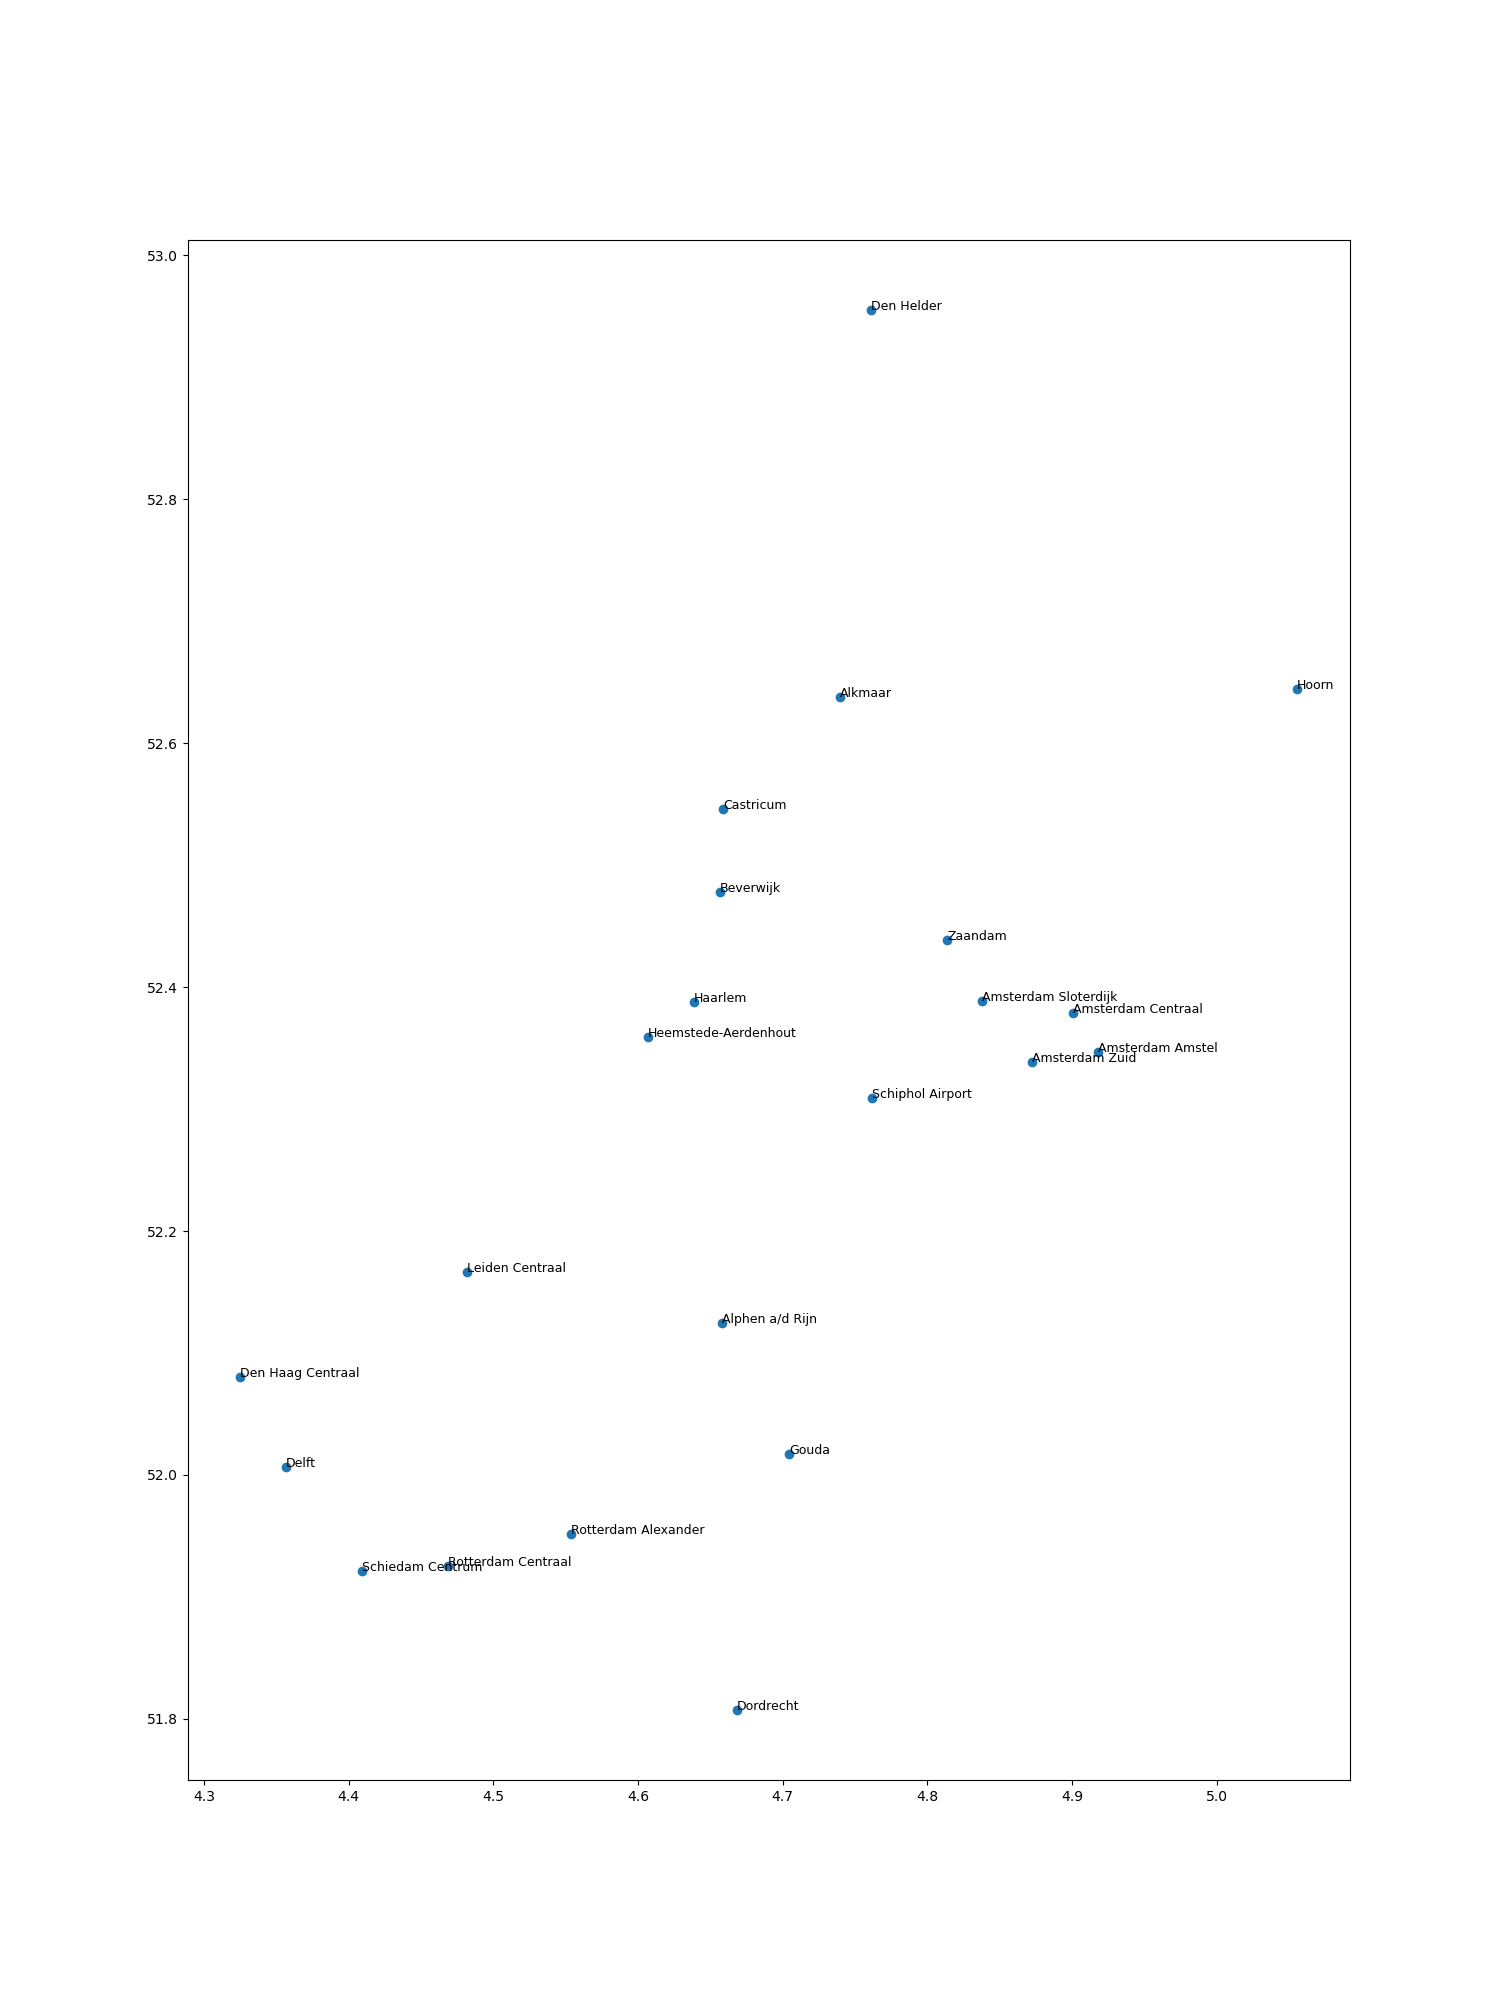
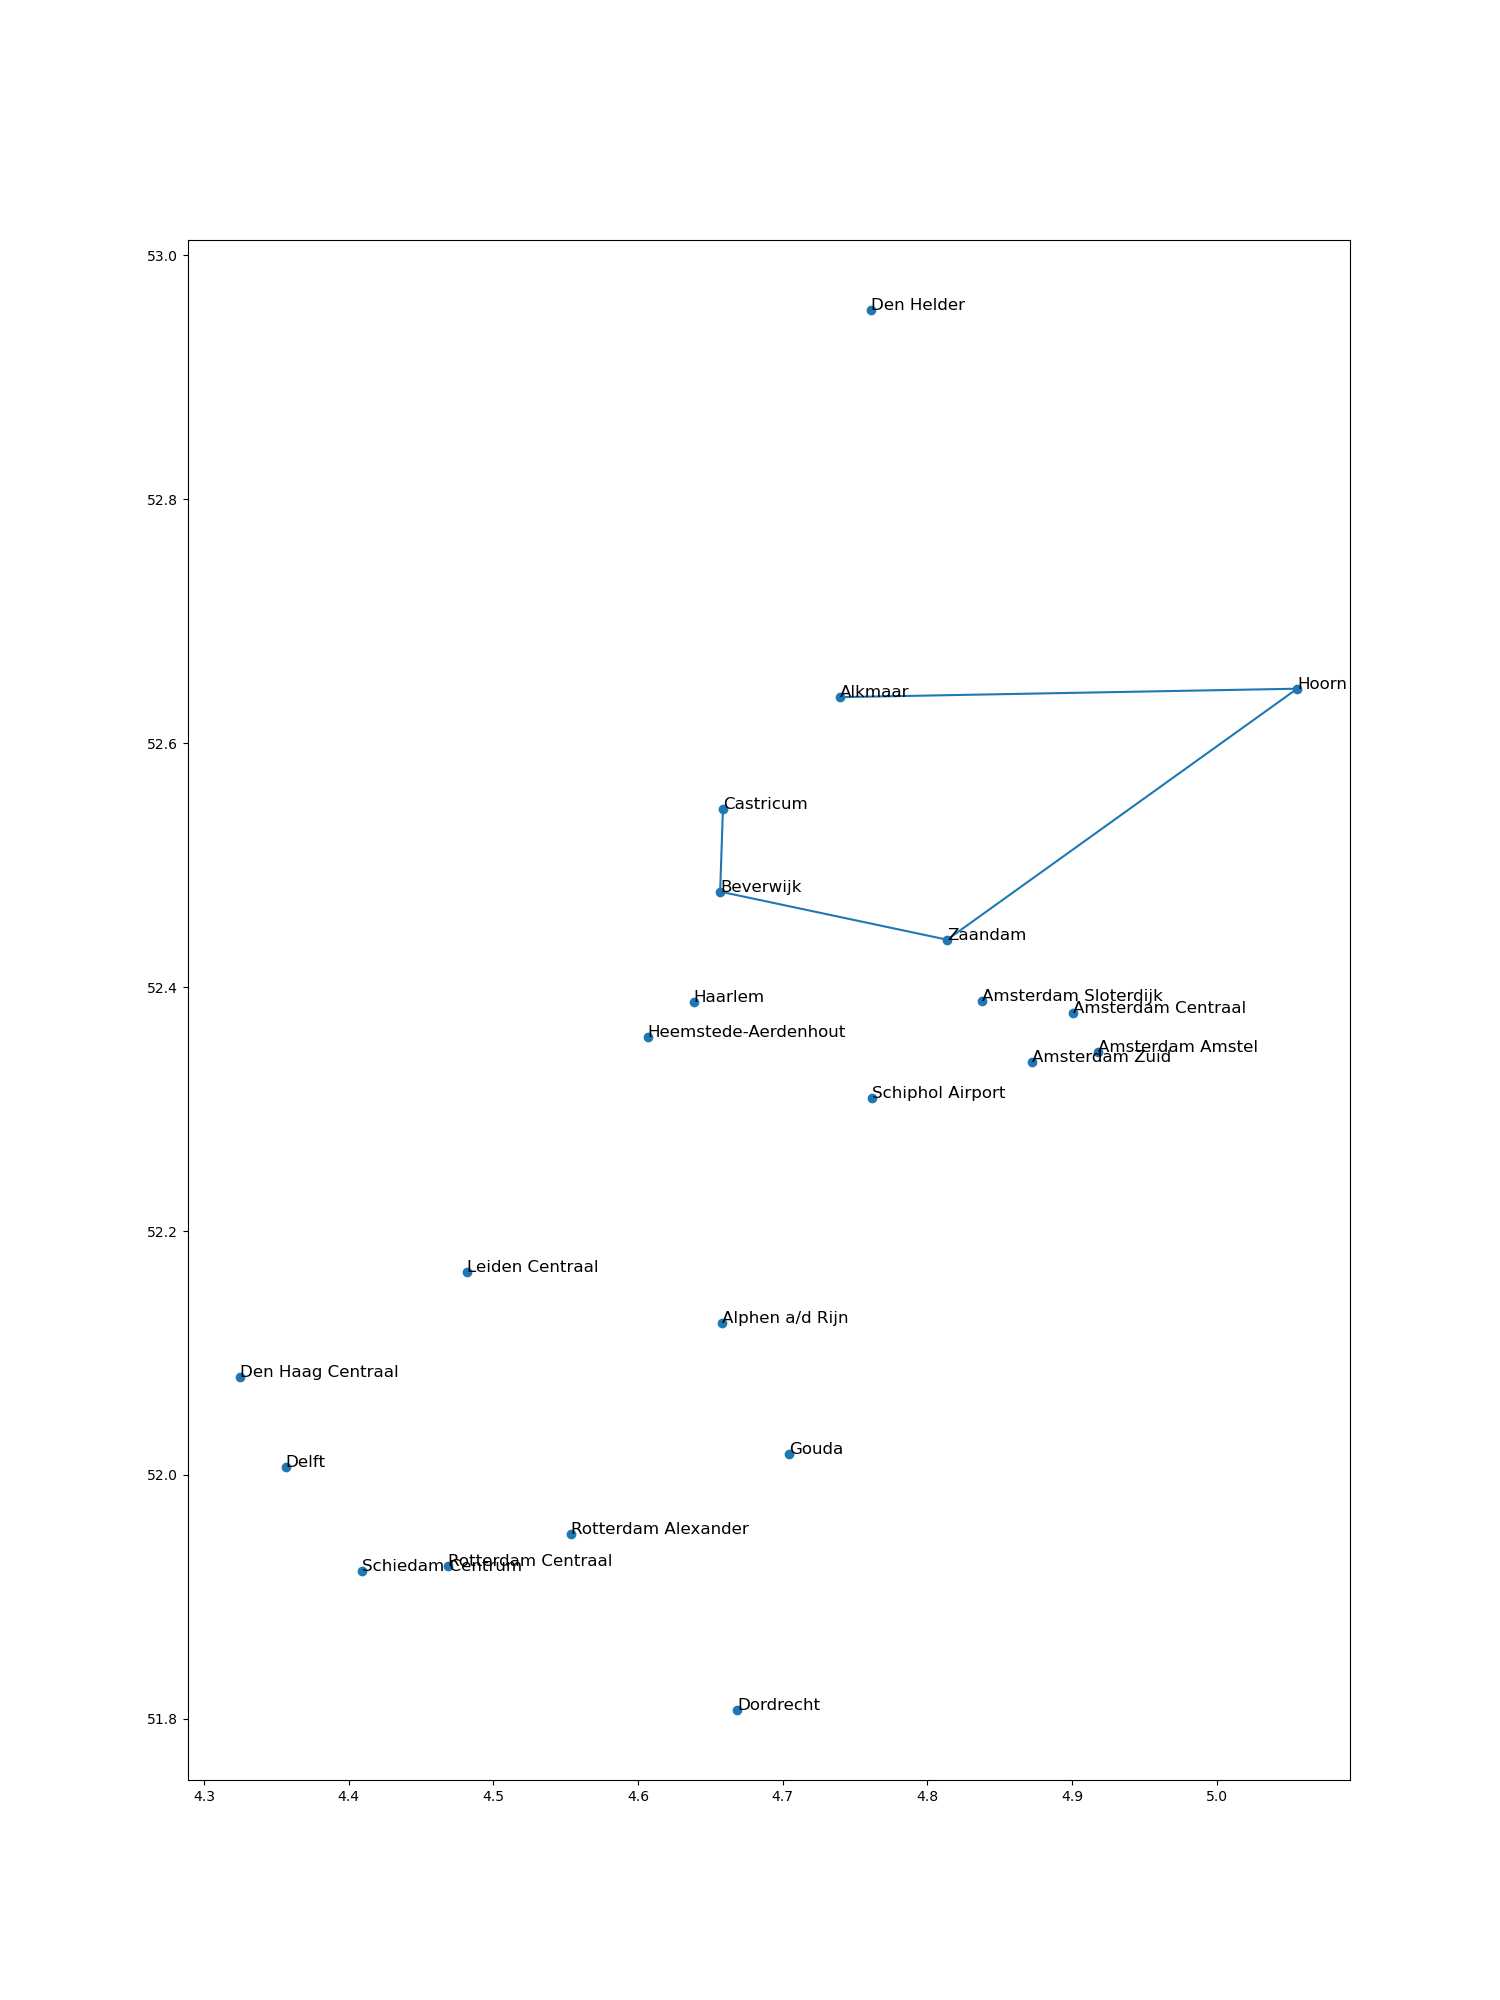
plotten track gemaakt

diff --git a/plotten.py b/plotten.py
@@ -1,6 +1,6 @@
 #  sudo apt-get install python3-matplotlib 
 
-
+import csv
 import matplotlib.pyplot as plt
 from inladen import make_stations
 
@@ -20,6 +20,29 @@ for i, name in enumerate(station_names):
     plt.text(x[i], y[i], name, fontsize=12)
 
 # plt.grid(True
+
+
+
+with open('TestTraject.csv', 'r') as csvfile:
+    csvreader = csv.reader(csvfile)
+    next(csvreader) 
+    for row in csvreader:
+        track = row[0]
+        print(track)
+
+        if track == "Track 1: ":
+            stations_track  = row[1].strip('[]').replace("'",'' ).split(', ')
+
+            y = [float(stations[station]._coordinates[0]) for station in stations_track]
+            x = [float(stations[station]._coordinates[1]) for station in stations_track]
+            plt.plot(x,y)
+        
+        # if track == "Track 2: ":
+        #     stations_track  = row[1].strip('[]').replace("'",'' ).split(', ')
+
+        #     y = [float(stations[station]._coordinates[0]) for station in stations_track]
+        #     x = [float(stations[station]._coordinates[1]) for station in stations_track]
+        #     plt.plot(x,y, c='green')
 # opslaan en weergeven
 plt.savefig('images/plot_zuid_noord.png') 
 plt.show()

diff --git a/track_test.py b/track_test.py
@@ -5,20 +5,24 @@ from Classes.Traject import *
 from inladen import *
 
 stationDict = make_connections()
-print(stationDict["Alkmaar"])
-T1 = Traject(stationDict['Hoorn'])
-T1.add_trajectconnection(stationDict["Alkmaar"])
+#print(stationDict["Alkmaar"])
+T1 = Traject(stationDict['Alkmaar'])
 T1.add_trajectconnection(stationDict["Hoorn"])
+T1.add_trajectconnection(stationDict["Zaandam"])
+T1.add_trajectconnection(stationDict["Beverwijk"])
+T1.add_trajectconnection(stationDict["Castricum"])
 print(T1._traveltime)
 print(T1._trajectconnection)
 print(T1._stations)
 T2 = Traject(stationDict["Alkmaar"])
 T2.add_trajectconnection(stationDict["Den Helder"])
 
+
+
 filename = 'TestTraject.csv'
 
 with open(filename, 'w', newline="") as file:
-    writer = csv.writer(file,quoting=csv.QUOTE_NONE, delimiter = ",", escapechar='\\')
+    writer = csv.writer(file,quoting=csv.QUOTE_MINIMAL, delimiter = ",")
     writer.writerows([["Tracks", "Stations"],["Track 1: ",T1._stations], ["Track 2: ", T2._stations]])
 
 print("Jeei")
